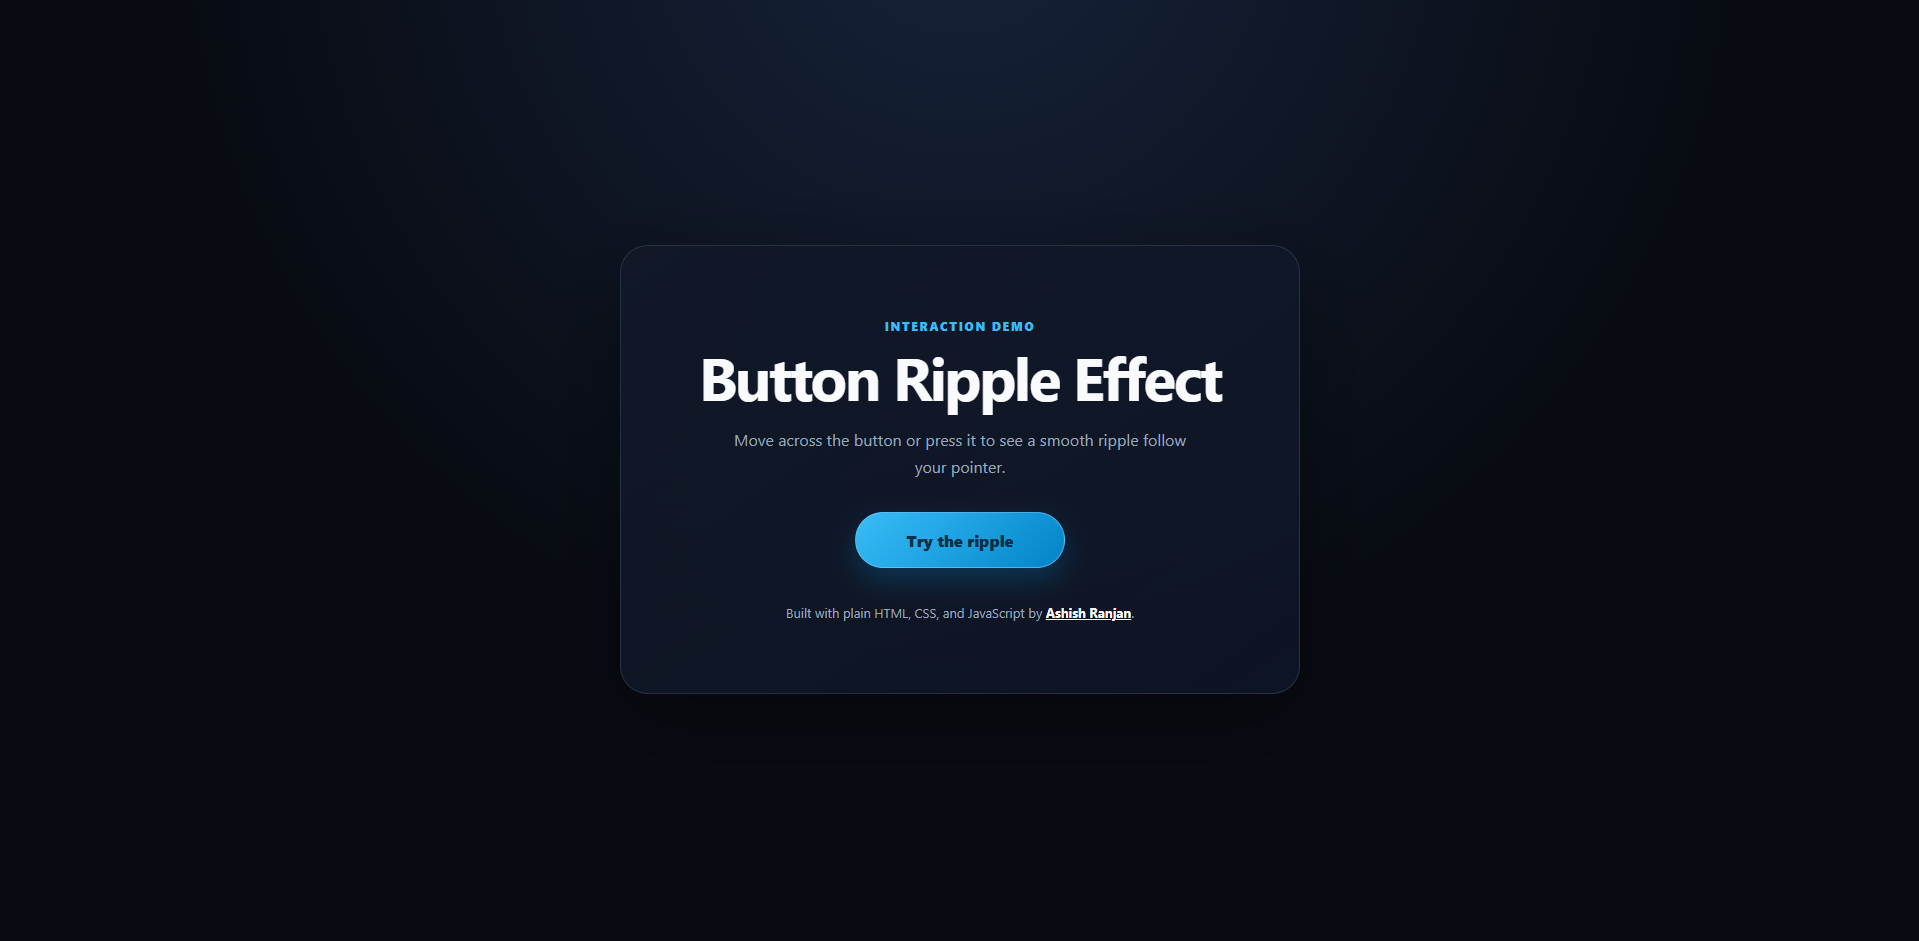
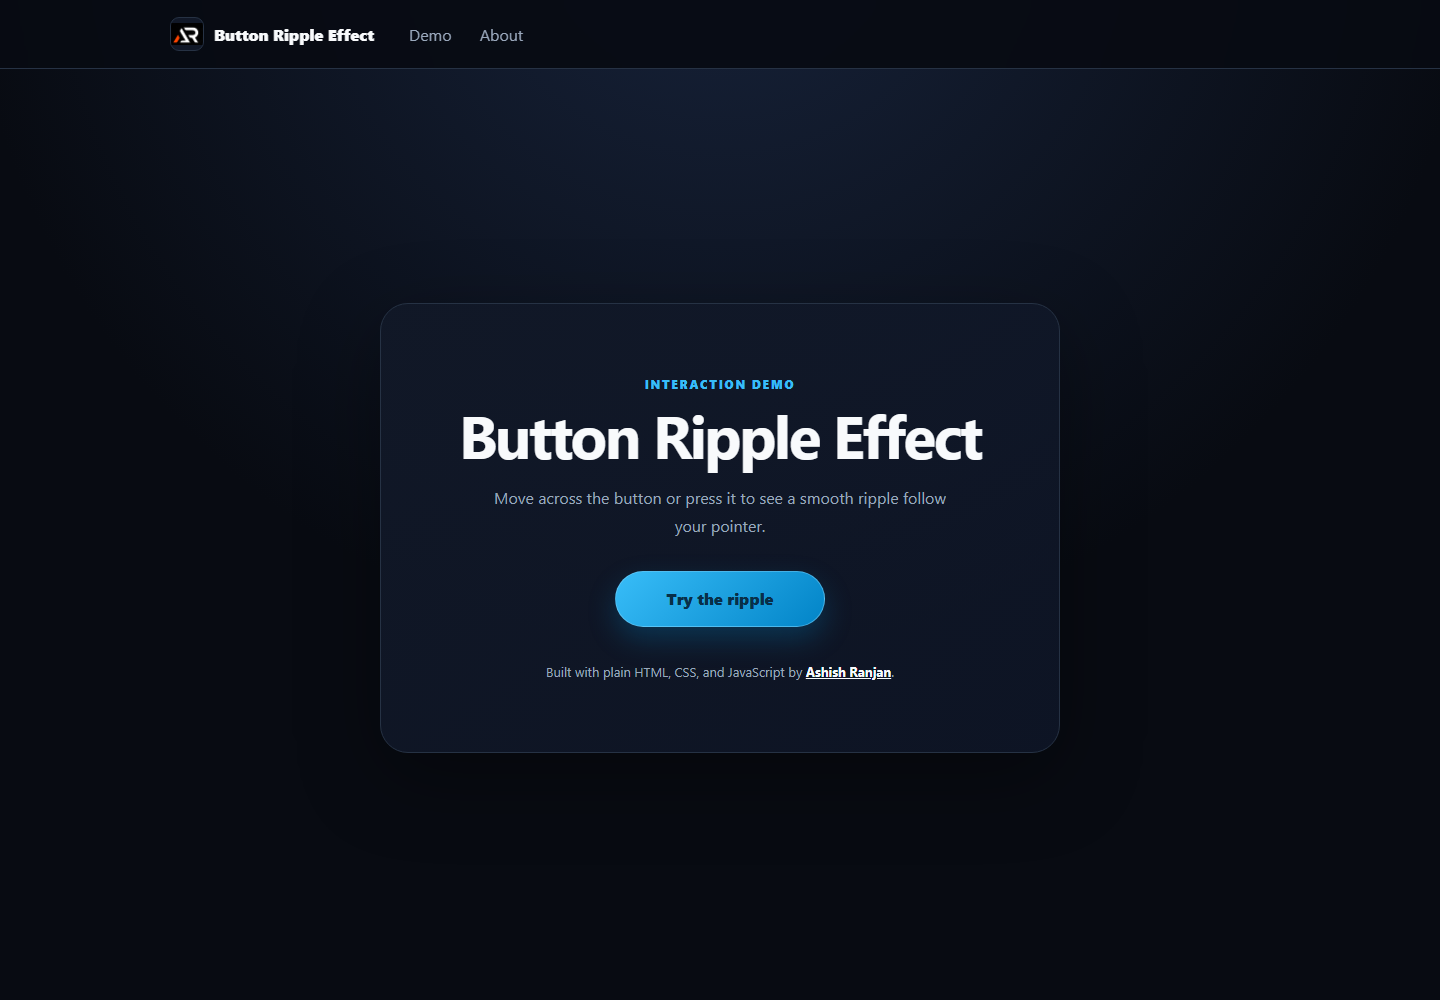
Improve button ripple demo shell

diff --git a/index.html b/index.html
@@ -8,15 +8,36 @@
         <meta property="og:title" content="Button Ripple Effect" />
         <meta property="og:description" content="A polished CSS and JavaScript ripple interaction demo." />
         <meta property="og:type" content="website" />
-        <meta property="og:image" content="https://a2rp.github.io/button_ripple_effect-html-css-javascript/screenshot.png" />
+        <meta property="og:url" content="https://a2rp.github.io/button_ripple_effect-html-css-javascript/" />
+        <meta property="og:image" content="public/preview.png" />
         <meta name="twitter:card" content="summary_large_image" />
-        <meta name="twitter:image" content="https://a2rp.github.io/button_ripple_effect-html-css-javascript/screenshot.png" />
+        <meta name="twitter:title" content="Button Ripple Effect" />
+        <meta name="twitter:description" content="A polished CSS and JavaScript ripple interaction demo." />
+        <meta name="twitter:image" content="public/preview.png" />
+        <meta name="theme-color" content="#080b12" />
         <title>Button Ripple Effect | Ashish Ranjan</title>
+        <link rel="icon" href="public/favicon.ico" />
         <link rel="stylesheet" href="style.css" />
         <script src="script.js" defer></script>
     </head>
     <body>
-        <main class="page-shell">
+        <header class="site-header">
+            <div class="header-inner">
+                <a class="brand" href="#demo" aria-label="Button Ripple Effect home">
+                    <img class="brand-logo" src="public/logo.png" alt="Button Ripple Effect logo" />
+                    <span>Button Ripple Effect</span>
+                </a>
+                <nav class="site-nav" id="site-navigation" aria-label="Main navigation">
+                    <a href="#demo">Demo</a>
+                    <a href="#about">About</a>
+                </nav>
+                <button class="menu-toggle" id="menu-toggle" type="button" aria-label="Open navigation menu" aria-expanded="false" aria-controls="site-navigation">
+                    <span></span><span></span><span></span>
+                </button>
+            </div>
+        </header>
+
+        <main class="page-shell" id="demo">
             <section class="demo-card" aria-labelledby="page-title">
                 <p class="eyebrow">Interaction demo</p>
                 <h1 id="page-title">Button Ripple Effect</h1>
@@ -25,9 +46,28 @@
                     <span class="button-text">Try the ripple</span>
                     <span class="ripple" aria-hidden="true"></span>
                 </button>
-                <p class="credit">Built with plain HTML, CSS, and JavaScript by <a href="https://www.ashishranjan.net/" target="_blank" rel="noopener noreferrer">Ashish Ranjan</a>.</p>
+                <p class="credit" id="about">Built with plain HTML, CSS, and JavaScript by <a href="https://www.ashishranjan.net/" target="_blank" rel="noopener noreferrer">Ashish Ranjan</a>.</p>
             </section>
-            <footer class="site-footer">Copyright &copy; <span id="year"></span> <a href="https://www.ashishranjan.net" target="_blank" rel="noopener noreferrer">Ashish Ranjan</a><nav aria-label="Footer links"><a href="https://github.com/a2rp" target="_blank" rel="noopener noreferrer">GitHub</a><a href="https://codepen.io/ash1198" target="_blank" rel="noopener noreferrer">CodePen</a><a href="mailto:ash.ranjan09@gmail.com">Email</a><a href="https://a2rp-donation-page.netlify.app/" target="_blank" rel="noopener noreferrer">Support</a><a href="https://buymeacoffee.com/a2rp" target="_blank" rel="noopener noreferrer">Buy Me A Coffee</a><a href="https://patreon.com/a2rp" target="_blank" rel="noopener noreferrer">Patreon</a></nav></footer>
         </main>
+
+        <footer class="site-footer">
+            <div class="footer-inner">
+                <p>Copyright &copy; <span id="copyright-year"></span> <a href="https://www.ashishranjan.net/" target="_blank" rel="noopener noreferrer">Ashish Ranjan</a></p>
+                <nav class="footer-links" aria-label="Footer links">
+                    <a href="https://www.ashishranjan.net/" target="_blank" rel="noopener noreferrer" aria-label="Portfolio" title="Portfolio"><svg viewBox="0 0 24 24" aria-hidden="true"><circle cx="12" cy="12" r="9"/><path d="M3 12h18M12 3c3 3 3 15 0 18M12 3c-3 3-3 15 0 18"/></svg></a>
+                    <a href="https://github.com/a2rp" target="_blank" rel="noopener noreferrer" aria-label="GitHub" title="GitHub"><svg viewBox="0 0 24 24" aria-hidden="true"><path d="M8 20c-4 1-4-2-5-2m10 4v-4c0-1 0-2-1-3 3 0 6-1 6-6 0-1-1-2-1-3 0-1 0-2-1-3-1 0-2 0-3 1-2-1-5-1-7 0-1-1-2-1-3-1-1 1-1 2-1 3-1 1-1 2-1 3 0 5 3 6 6 6-1 1-1 2-1 3v4"/></svg></a>
+                    <a href="https://codepen.io/ash1198" target="_blank" rel="noopener noreferrer" aria-label="CodePen" title="CodePen"><svg viewBox="0 0 24 24" aria-hidden="true"><path d="m3 8 9-5 9 5v8l-9 5-9-5V8Zm0 0 9 5 9-5M12 13v8M3 16l9-5 9 5M12 3v10"/></svg></a>
+                    <a href="https://www.linkedin.com/in/aashishranjan" target="_blank" rel="noopener noreferrer" aria-label="LinkedIn" title="LinkedIn"><svg viewBox="0 0 24 24" aria-hidden="true"><path d="M6 8v10M6 5v.1M10 18v-6a3 3 0 0 1 6 0v6M10 12v6"/></svg></a>
+                    <a href="https://www.facebook.com/theash.ashish/" target="_blank" rel="noopener noreferrer" aria-label="Facebook" title="Facebook"><svg viewBox="0 0 24 24" aria-hidden="true"><path d="M14 21v-8h3l.5-3H14V8c0-1 .4-2 2-2h1.6V3.2C17 3.1 16.1 3 15 3c-3 0-5 2-5 5v2H7v3h3v8"/></svg></a>
+                    <a href="https://www.youtube.com/@ashishranjan-ashz?sub_confirmation=1" target="_blank" rel="noopener noreferrer" aria-label="YouTube" title="YouTube"><svg viewBox="0 0 24 24" aria-hidden="true"><path d="M21 8s-.2-1.4-.8-2c-.8-.8-1.6-.8-2-.9C15.4 5 12 5 12 5s-3.4 0-6.2.1c-.4.1-1.2.1-2 .9C3.2 6.6 3 8 3 8S2.8 9.7 2.8 11.3v1.5C2.8 14.3 3 16 3 16s.2 1.4.8 2c.8.8 1.8.8 2.3.9 1.7.2 5.9.2 5.9.2s3.4 0 6.2-.1c.4-.1 1.2-.1 2-.9.6-.6.8-2 .8-2s.2-1.7.2-3.2v-1.5C21.2 9.7 21 8 21 8Z"/><path d="m10 9 5 3-5 3V9Z"/></svg></a>
+                    <a href="mailto:ash.ranjan09@gmail.com" aria-label="Email" title="Email"><svg viewBox="0 0 24 24" aria-hidden="true"><rect x="3" y="5" width="18" height="14" rx="2"/><path d="m4 7 8 6 8-6"/></svg></a>
+                    <a href="https://a2rp-donation-page.netlify.app/" target="_blank" rel="noopener noreferrer" aria-label="Support" title="Support"><svg viewBox="0 0 24 24" aria-hidden="true"><path d="M12 3a8 8 0 0 0-8 8v3a3 3 0 0 0 3 3h2v-6H6a6 6 0 0 1 12 0h-3v6h2a3 3 0 0 0 3-3v-3a8 8 0 0 0-8-8Z"/></svg></a>
+                    <a href="https://buymeacoffee.com/a2rp" target="_blank" rel="noopener noreferrer" aria-label="Buy Me a Coffee" title="Buy Me a Coffee"><svg viewBox="0 0 24 24" aria-hidden="true"><path d="M5 8h11v6a4 4 0 0 1-4 4H9a4 4 0 0 1-4-4V8Zm11 2h2a2 2 0 0 1 0 4h-2M8 4c-1 1 1 2 0 3m4-3c-1 1 1 2 0 3M4 21h14"/></svg></a>
+                    <a href="https://www.patreon.com/a2rp" target="_blank" rel="noopener noreferrer" aria-label="Patreon" title="Patreon"><svg viewBox="0 0 24 24" aria-hidden="true"><circle cx="14" cy="9" r="5"/><path d="M5 3v18"/></svg></a>
+                </nav>
+            </div>
+        </footer>
+
+        <button class="to-top" id="to-top" type="button" aria-label="Go to top" title="Go to top">↑</button>
     </body>
 </html>

diff --git a/style.css b/style.css
@@ -13,6 +13,8 @@
 
 html, body { min-height: 100%; }
 
+html { scroll-behavior: smooth; }
+
 body {
   margin: 0;
   background: radial-gradient(circle at 50% -10%, #17233b, var(--bg) 55%);
@@ -20,11 +22,24 @@ body {
   font-family: Inter, ui-sans-serif, system-ui, -apple-system, BlinkMacSystemFont, "Segoe UI", sans-serif;
 }
 
+.site-header { position: fixed; inset: 0 0 auto; z-index: 20; border-bottom: 1px solid var(--border); background: rgb(8 11 18 / .92); backdrop-filter: blur(12px); }
+.header-inner, .footer-inner { width: min(100% - 48px, 1100px); margin: 0 auto; }
+.header-inner { min-height: 68px; display: grid; grid-template-columns: auto 1fr auto; align-items: center; gap: 24px; }
+.brand { display: inline-flex; align-items: center; gap: 10px; color: var(--text); font-weight: 800; text-decoration: none; white-space: nowrap; }
+.brand:hover { text-shadow: 0 0 12px var(--accent); }
+.brand-logo { width: 34px; height: 34px; object-fit: contain; border: 1px solid var(--border); border-radius: 9px; background: var(--surface); }
+.site-nav { display: flex; align-items: center; gap: 6px; }
+.site-nav a { padding: 8px 10px; border: 1px solid transparent; border-radius: 9px; color: var(--muted); text-decoration: none; transition: border-color .18s ease, box-shadow .18s ease, text-shadow .18s ease, color .18s ease; }
+.site-nav a:hover, .site-nav a:focus-visible { color: var(--text); border-color: var(--accent); box-shadow: 0 0 0 1px rgb(56 189 248 / .2); text-shadow: 0 0 10px var(--accent); outline: none; }
+.menu-toggle { display: none; width: 38px; height: 38px; padding: 8px; border: 1px solid var(--border); border-radius: 9px; background: transparent; cursor: pointer; }
+.menu-toggle span { display: block; height: 2px; margin: 4px 0; background: var(--text); }
+.menu-toggle:hover, .menu-toggle:focus-visible { border-color: var(--accent); box-shadow: 0 0 0 2px rgb(56 189 248 / .2); outline: none; }
+
 .page-shell {
   min-height: 100vh;
   display: grid;
   place-items: center;
-  padding: 24px;
+  padding: 112px 24px 56px;
 }
 
 .demo-card {
@@ -65,7 +80,24 @@ h1 { margin: 0; font-size: clamp(32px, 7vw, 60px); line-height: 1; letter-spacin
 .ripple-button:hover .ripple, .ripple-button:focus-visible .ripple, .ripple-button:active .ripple { transform: translate(-50%, -50%) scale(90); }
 .credit { margin: 36px 0 0; color: var(--muted); font-size: 13px; }
 .credit a { color: var(--text); font-weight: 700; }
-.site-footer { display: flex; flex-wrap: wrap; justify-content: center; gap: 8px 12px; margin-top: 20px; color: var(--muted); font-size: 12px; text-align: center; }
-.site-footer a { color: var(--text); font-weight: 700; }
-.site-footer nav { display: flex; flex-wrap: wrap; justify-content: center; gap: 8px 12px; width: 100%; }
+.site-footer { border-top: 1px solid var(--border); padding: 18px 0; background: rgb(8 11 18 / .92); }
+.footer-inner { display: flex; align-items: center; justify-content: space-between; gap: 16px; flex-wrap: wrap; color: var(--muted); font-size: 13px; }
+.footer-inner p { margin: 0; }
+.footer-inner p a { color: var(--text); font-weight: 700; }
+.footer-inner p a:hover { text-shadow: 0 0 10px var(--accent); }
+.footer-links { display: flex; align-items: center; justify-content: flex-end; gap: 8px; flex-wrap: wrap; }
+.footer-links a { width: 32px; height: 32px; display: grid; place-items: center; border: 1px solid var(--border); border-radius: 8px; color: var(--text); transition: border-color .18s ease, box-shadow .18s ease, text-shadow .18s ease; }
+.footer-links a:hover, .footer-links a:focus-visible { border-color: var(--accent); box-shadow: 0 0 0 2px rgb(56 189 248 / .2); text-shadow: 0 0 10px var(--accent); outline: none; }
+.footer-links svg { width: 16px; height: 16px; fill: none; stroke: currentColor; stroke-width: 1.7; stroke-linecap: round; stroke-linejoin: round; }
+.to-top { position: fixed; right: 22px; bottom: 22px; z-index: 25; width: 42px; height: 42px; display: grid; place-items: center; border: 1px solid var(--border); border-radius: 50%; background: var(--surface); color: var(--text); font: inherit; font-size: 20px; cursor: pointer; opacity: 0; pointer-events: none; transform: translateY(8px); transition: opacity .18s ease, transform .18s ease, border-color .18s ease, box-shadow .18s ease; }
+.to-top.is-visible { opacity: 1; pointer-events: auto; transform: translateY(0); }
+.to-top:hover, .to-top:focus-visible { border-color: var(--accent); box-shadow: 0 0 0 2px rgb(56 189 248 / .2); outline: none; }
+@media (max-width: 680px) {
+  .header-inner, .footer-inner { width: min(100% - 32px, 1100px); }
+  .site-nav { position: absolute; top: calc(100% + 10px); left: 16px; right: 16px; display: none; flex-direction: column; align-items: stretch; padding: 10px; border: 1px solid var(--border); border-radius: 14px; background: var(--surface); box-shadow: 0 18px 42px rgb(0 0 0 / .35); }
+  .site-nav.is-open { display: flex; }
+  .menu-toggle { display: block; }
+  .footer-inner { justify-content: center; text-align: center; }
+  .footer-links { justify-content: center; }
+}
 @media (prefers-reduced-motion: reduce) { *, *::before, *::after { transition-duration: .01ms !important; } }

diff --git a/script.js b/script.js
@@ -1,5 +1,5 @@
 const button = document.querySelector(".ripple-button");
-document.querySelector("#year").textContent = new Date().getFullYear();
+document.querySelector("#copyright-year").textContent = new Date().getFullYear();
 const ripple = button.querySelector(".ripple");
 
 function moveRipple(event) {
@@ -11,3 +11,29 @@ function moveRipple(event) {
 button.addEventListener("pointerenter", moveRipple);
 button.addEventListener("pointermove", moveRipple);
 button.addEventListener("pointerdown", moveRipple);
+
+const menuToggle = document.querySelector("#menu-toggle");
+const siteNavigation = document.querySelector("#site-navigation");
+const topButton = document.querySelector("#to-top");
+
+menuToggle.addEventListener("click", () => {
+    const open = siteNavigation.classList.toggle("is-open");
+    menuToggle.setAttribute("aria-expanded", String(open));
+    menuToggle.setAttribute("aria-label", open ? "Close navigation menu" : "Open navigation menu");
+});
+
+siteNavigation.querySelectorAll("a").forEach((link) => {
+    link.addEventListener("click", () => {
+        siteNavigation.classList.remove("is-open");
+        menuToggle.setAttribute("aria-expanded", "false");
+        menuToggle.setAttribute("aria-label", "Open navigation menu");
+    });
+});
+
+window.addEventListener("scroll", () => {
+    topButton.classList.toggle("is-visible", window.scrollY > 320);
+}, { passive: true });
+
+topButton.addEventListener("click", () => {
+    window.scrollTo({ top: 0, behavior: "smooth" });
+});

diff --git a/README.md b/README.md
@@ -2,7 +2,7 @@
 
 A small, accessible interaction demo built with plain HTML, CSS, and JavaScript. The ripple follows the pointer and responds to keyboard focus without a framework.
 
-![Button Ripple Effect preview](screenshot.png)
+![Button Ripple Effect screenshot](screenshot.png)
 
 ## Features
 
